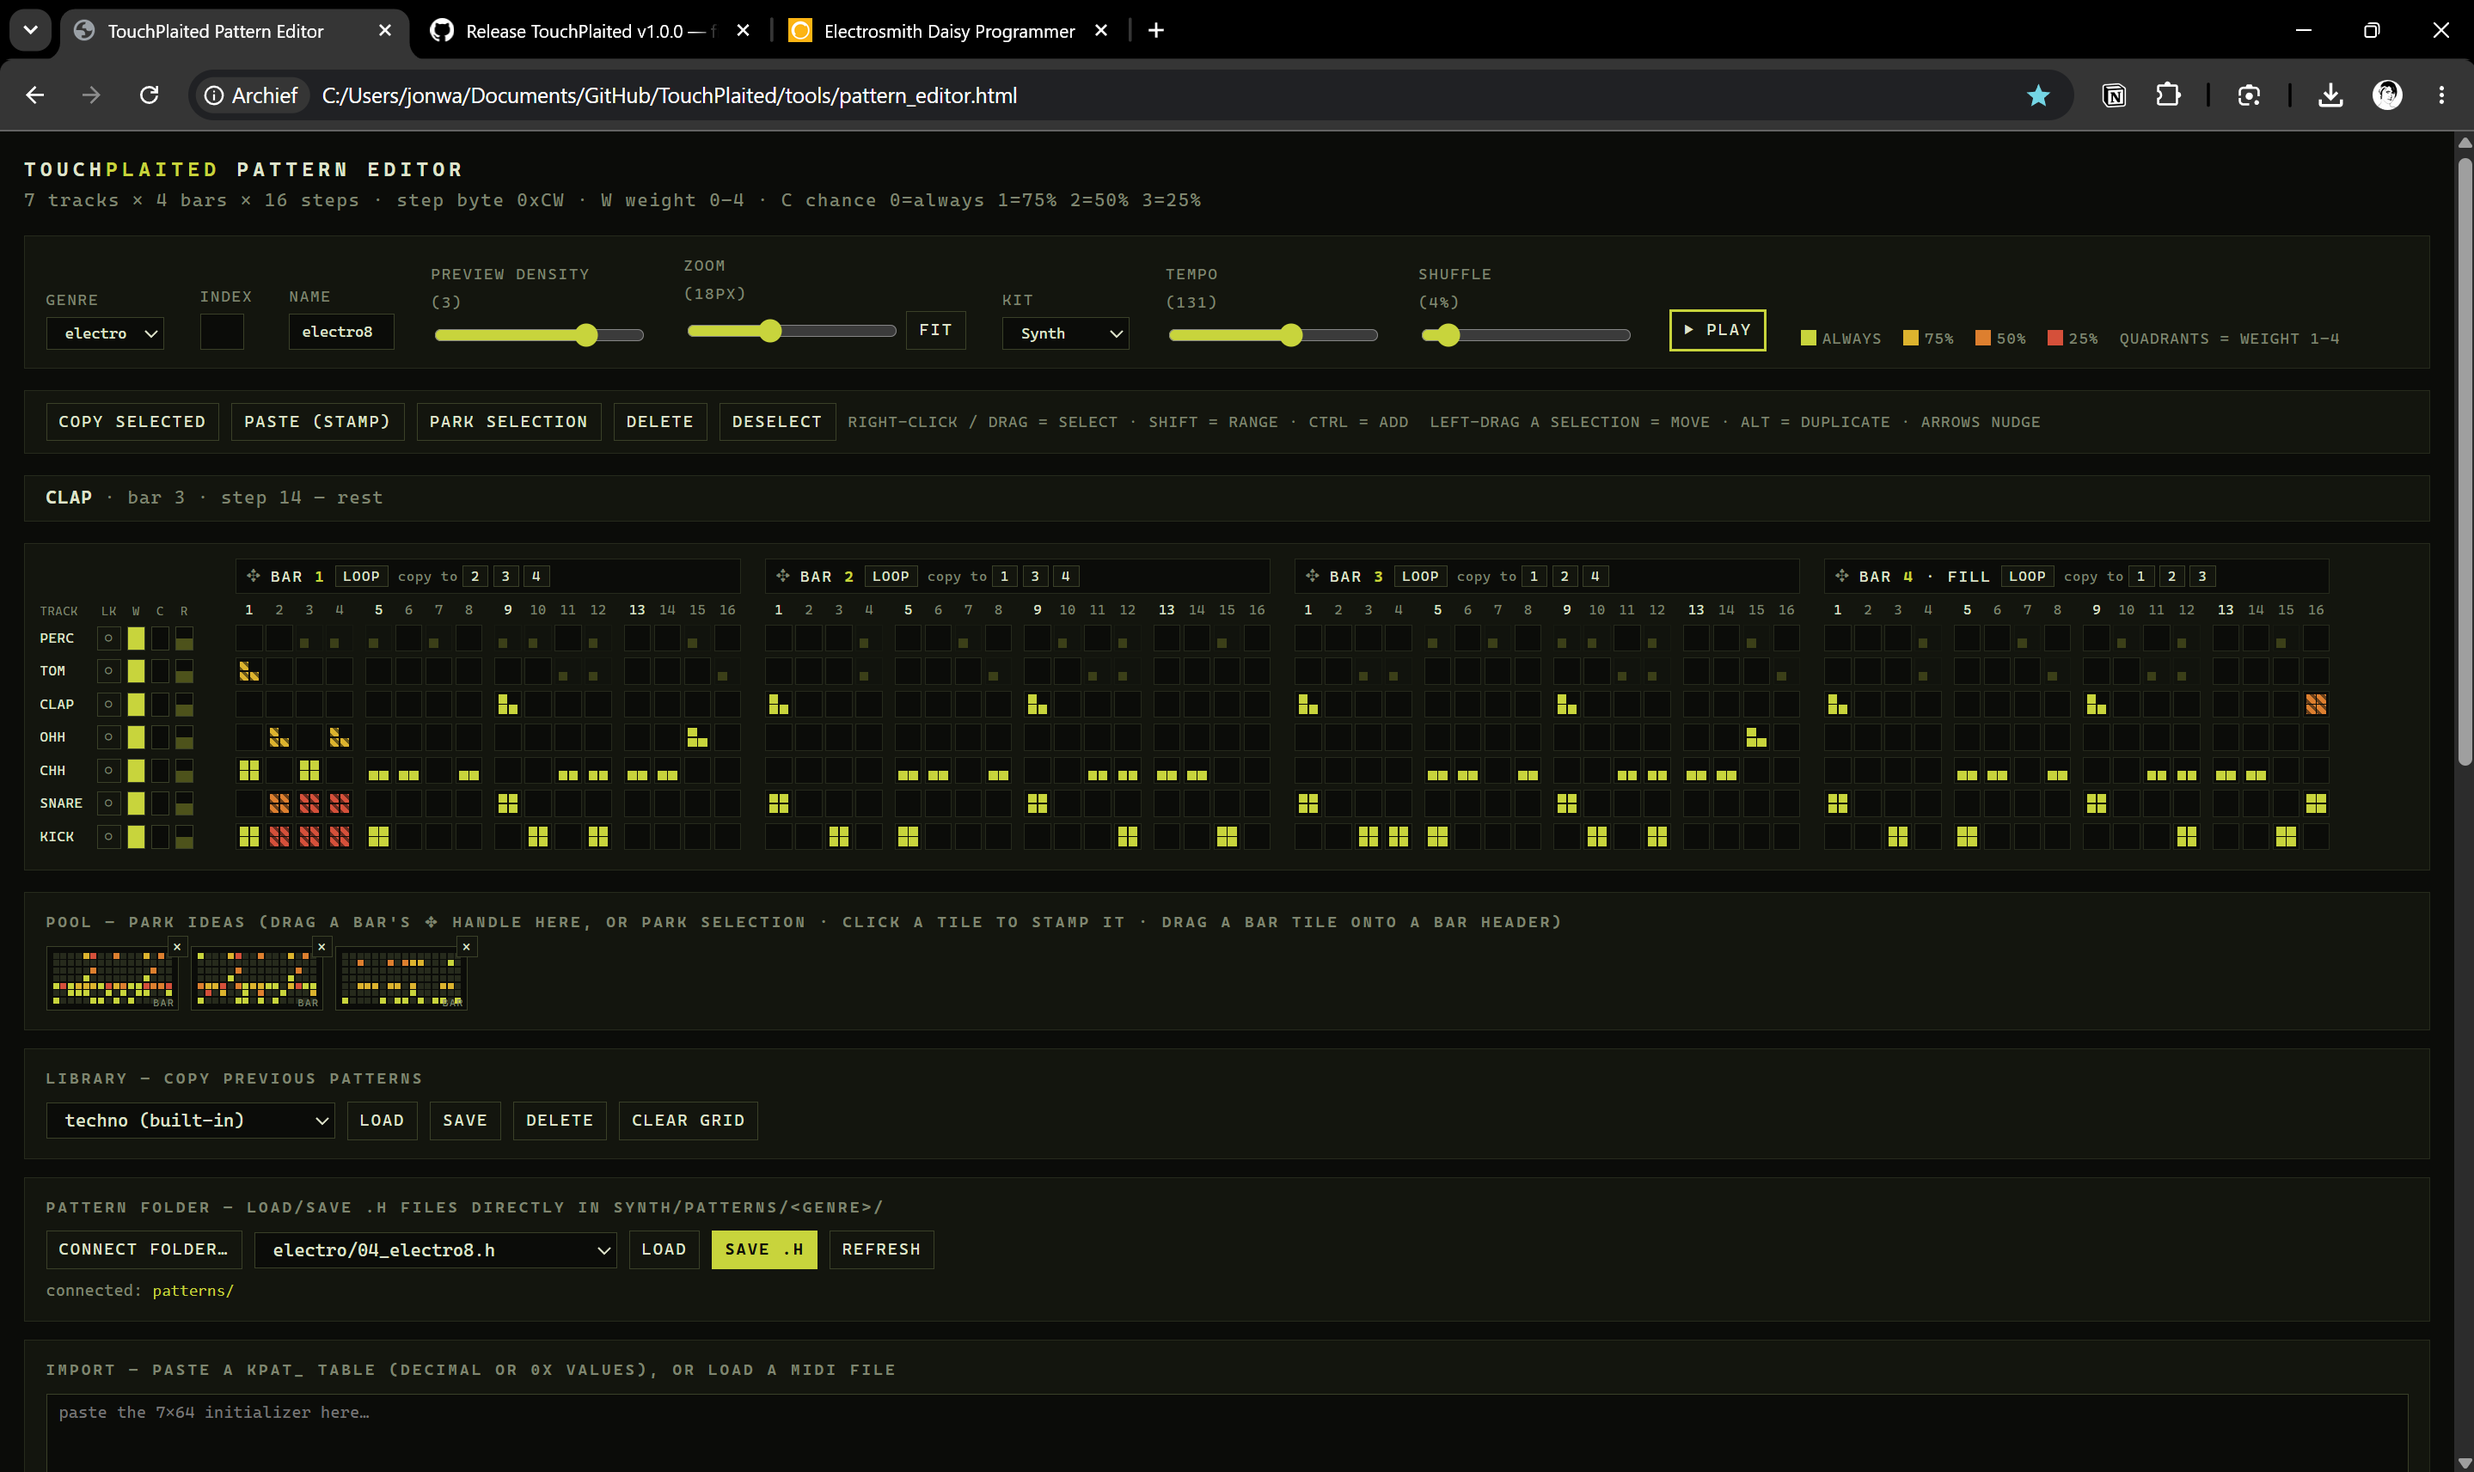
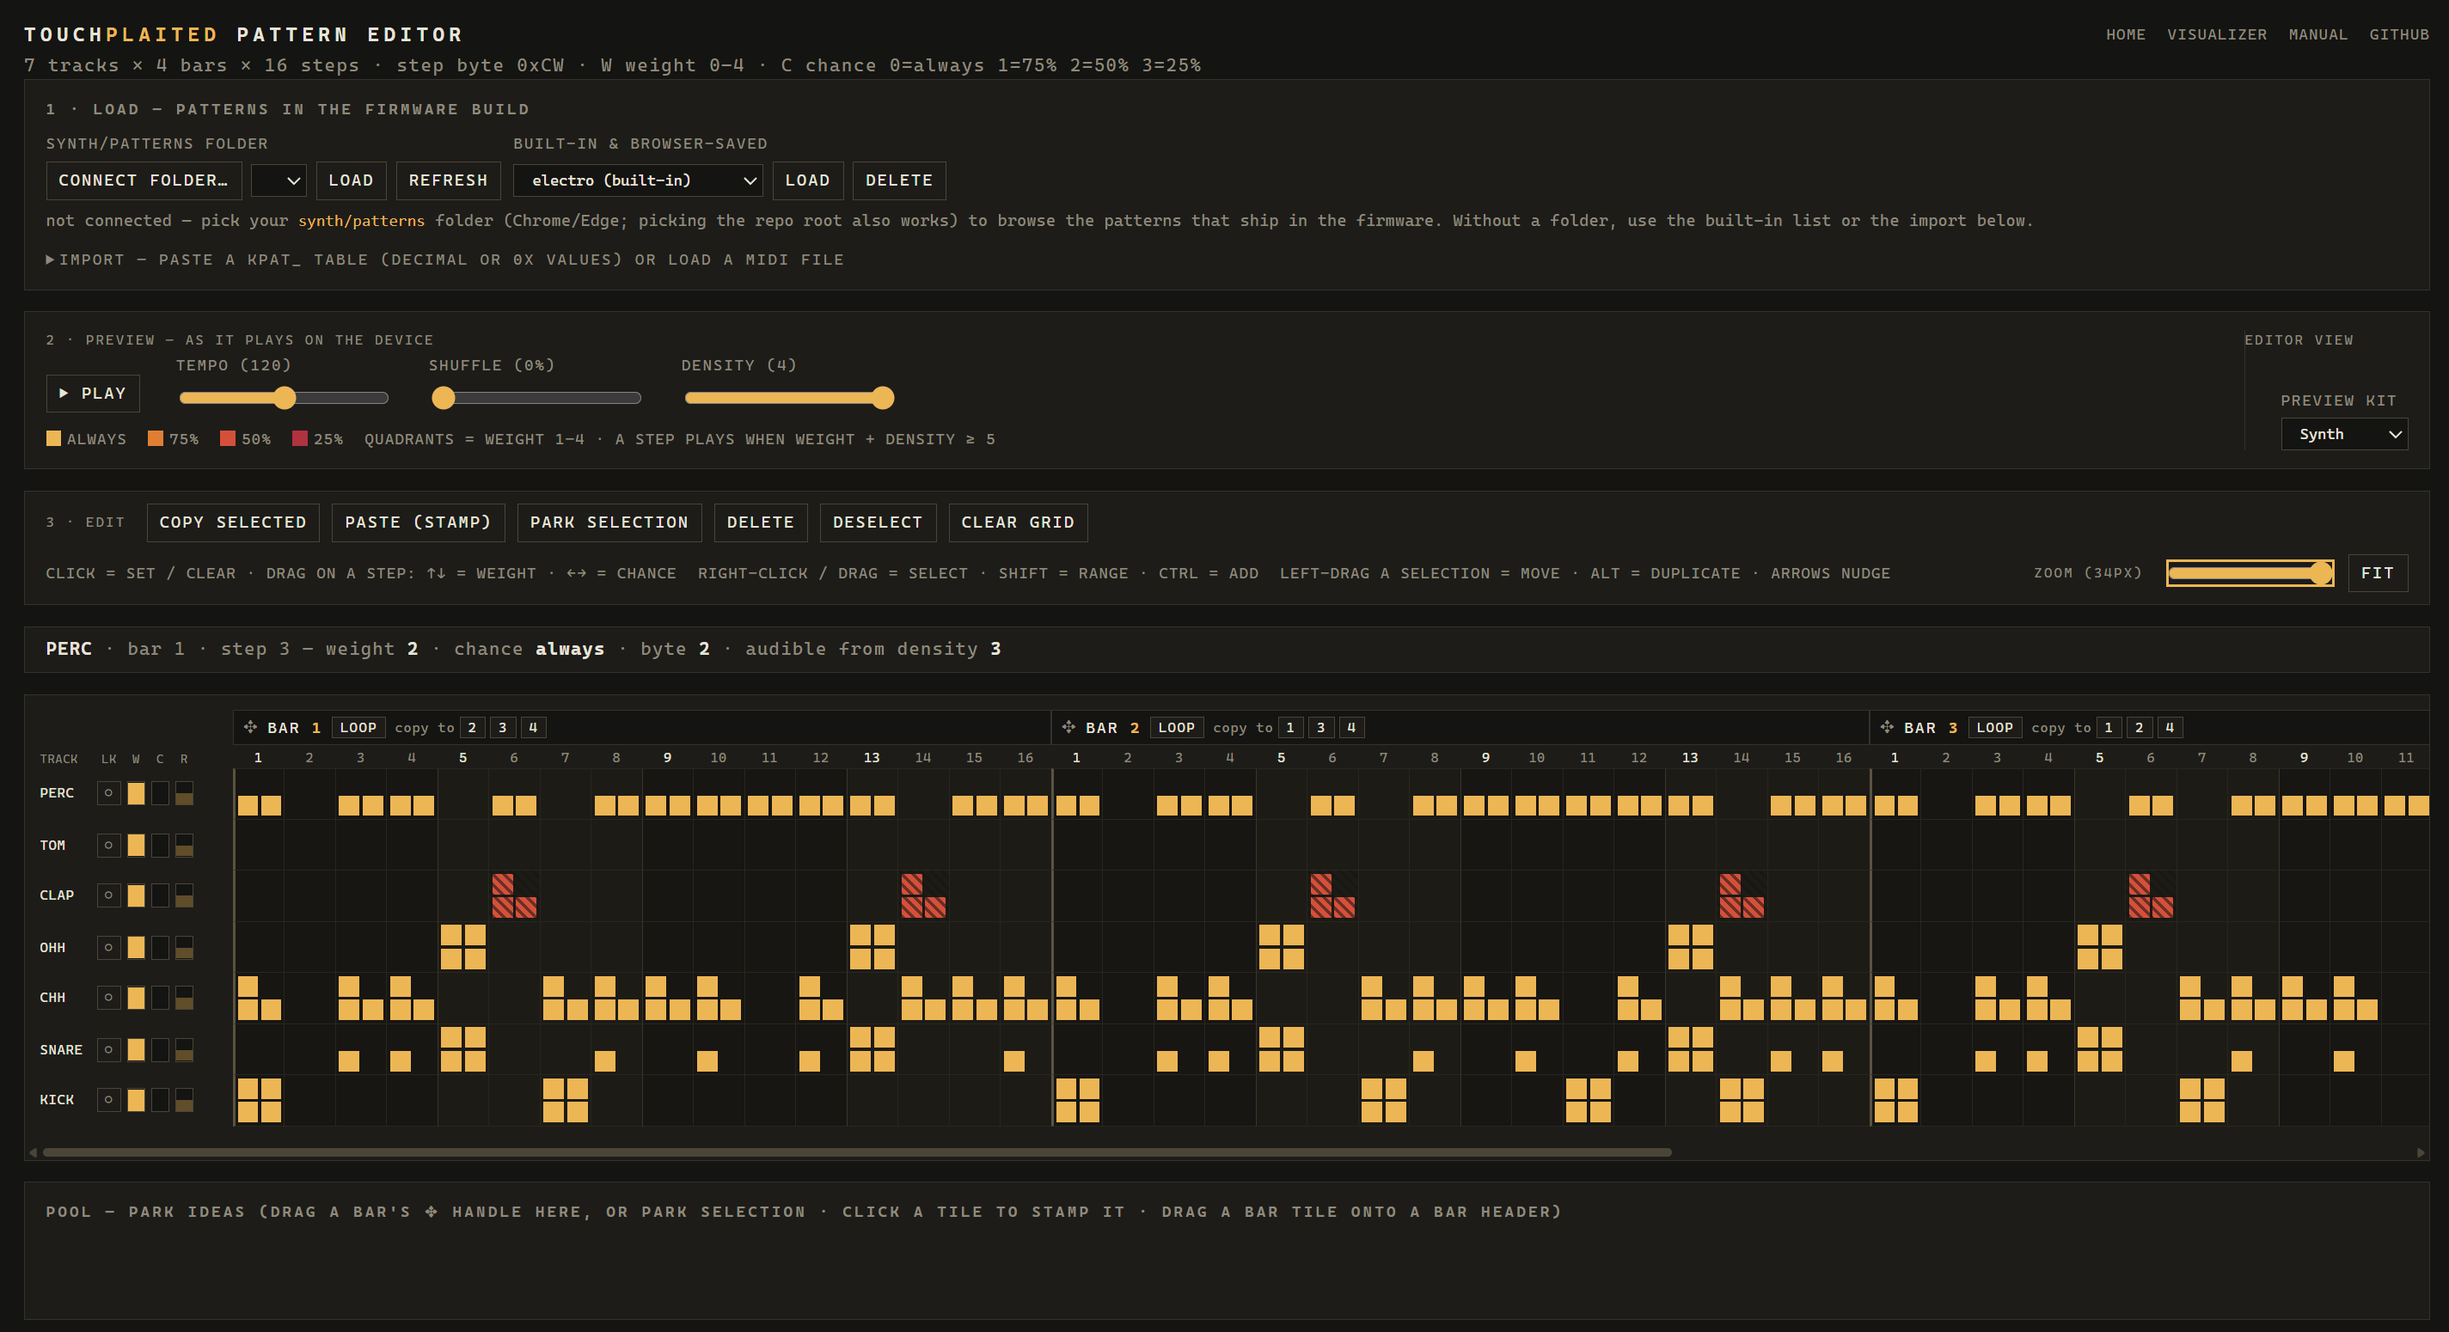
README + MANUAL: visualizer screenshots, refreshed SEQ editor shot
- Two new visualizer screenshots (hero + hover-reveal of the label toggle);
  filenames fixed from TouchPlated_* to TouchPlaited_* before they hit
  public URLs. SEQ editor screenshot updated to the current look.
- MANUAL gains a "Visualizer webapp" section (before MIDI) with both shots,
  the dyn / S# / Aa overlay cycle, and a tip link at the top; README toggle
  caption aligned with the actual cycle order and meanings.

diff --git a/MANUAL.md b/MANUAL.md
@@ -1,5 +1,7 @@
 # TouchPlaited — Controls Reference
 
+> **Tip:** the [visualizer webapp](https://jonwaterschoot.github.io/TouchPlaited/visualizer/) shows all of this live on a drawing of the panel while you play — see [Visualizer webapp](#visualizer-webapp) below.
+
 ## Controls at a glance
 
 ### Basic Pitch (SW2 Down)
@@ -430,6 +432,20 @@ Hold both pads together. Two stages fire in sequence.
 | Hold P2, then tap P10 | Toggle the melodic transport — the arp and the Rec loop together (same blink code) |
 
 The order matters: **P2 first**. While P2 is held, P10/P11's octave functions are disabled; after both are released they work normally again. Starting the seq from a pitched mode before ever entering Seq generates a drum kit automatically. Stopping the melodic transport closes all open arp/loop gates; starting it again resumes in phase with the master tempo.
+
+---
+
+## Visualizer webapp
+
+[The visualizer](https://jonwaterschoot.github.io/TouchPlaited/visualizer/) mirrors the panel live in the browser while you learn or play: connect the device over USB MIDI (Chrome/Edge, grant the SysEx permission) and the pads light up as you touch them, the knobs follow the pots, and contextual callouts name whatever you're using — quantized settings show their actual names (Six-Op patch x/32, chord types, arp Order Played/Up/Down/Ping-pong/Random). A **Demo** button runs a scripted loop when no hardware is connected.
+
+![The visualizer with dynamic labels following the panel](img/TouchPlaited_dynamicvisualizer.png)
+
+The draggable info panel shows model / mode / step, a knob map of what every pot does *right now* (engine-aware — it also tells you which knobs have no effect on the current model), the drum kit in Seq, and a log of your last gestures. Hover it for the font-size buttons and the label-overlay toggle, which cycles **dyn** (live callouts only, the default) / **S#** (permanent S30…S37 / P0…P11 designators) / **Aa** (full faceplate-style labels for the current mode and model).
+
+![Hover the info screen for the size buttons and label toggle](img/TouchPlaited_dynamicvisualizer_hovernotconnected.png)
+
+It also sends MIDI *to* the device: click the drum pads on the drawing, or open the MIDI drawer for a fader per supported CC and a piano on ch 1. URL flags for OBS overlays and the full feature list: [visualizer/README.md](visualizer/README.md).
 
 ---
 

diff --git a/README.md b/README.md
@@ -2,6 +2,8 @@
 
 A Synthux Simple Touch firmware based on Mutable Instruments Plaits (Émilie Gillet, MIT License): a 7-voice touch synth plus a 16-step generative drum sequencer, playable at the same time (though limited by voice stealing).
 
+![The visualizer webapp mirroring the panel live](img/TouchPlaited_dynamicvisualizer.png)
+
 Full controls reference: [MANUAL.md](MANUAL.md).
 
 **On the web:** [visualizer](https://jonwaterschoot.github.io/TouchPlaited/visualizer/) · [pattern editor](https://jonwaterschoot.github.io/TouchPlaited/editor/) · [manual](https://jonwaterschoot.github.io/TouchPlaited/manual.html) — hosted from this repo via GitHub Pages.
@@ -16,9 +18,16 @@ Using a fader to mix between the models AUX or OUT outputs. Adding a way to spre
 
 **MIDI in/out** on USB and on TRS (USART1, D13/D14 — for hardware-modded boards): notes on ch1 (pitched, chromatic) and ch10 (GM drums), CC20–31 for sound and sequencer functions, the pads/sequencer mirrored to MIDI out, and full clock sync — it follows an external MIDI clock (with start/stop) and sends its own when there isn't one. See *MIDI at a glance* below and the full mapping in [MANUAL.md](MANUAL.md#midi).
 
-Still working on this, so things might move around.
+Note: While playable and pretty stable; I am still working on this, so things might move around.
 
 ## Cheat sheet
+
+> **Tip**: use the visualizer and connect midi to get feedback, hover the info screen and select "DYN".
+
+![hover to see the labels](img/TouchPlaited_dynamicvisualizer_hovernotconnected.png)
+
+Hover the info screen, toggle **dyn** (live callouts on top of the drawing) / **S#** (label numbers only) / **Aa** (full labels + text)
+
 
 **SW2 — playmode:** Down = Basic Pitch · Center = Arp/Mel · Up = Seq
 **SW1 — scale** minor / chromatic / major *(Basic Pitch)* · **arp state** hold / arp / rec *(Arp/Mel)* · **genre** IDM / techno / electro *(Seq)*
